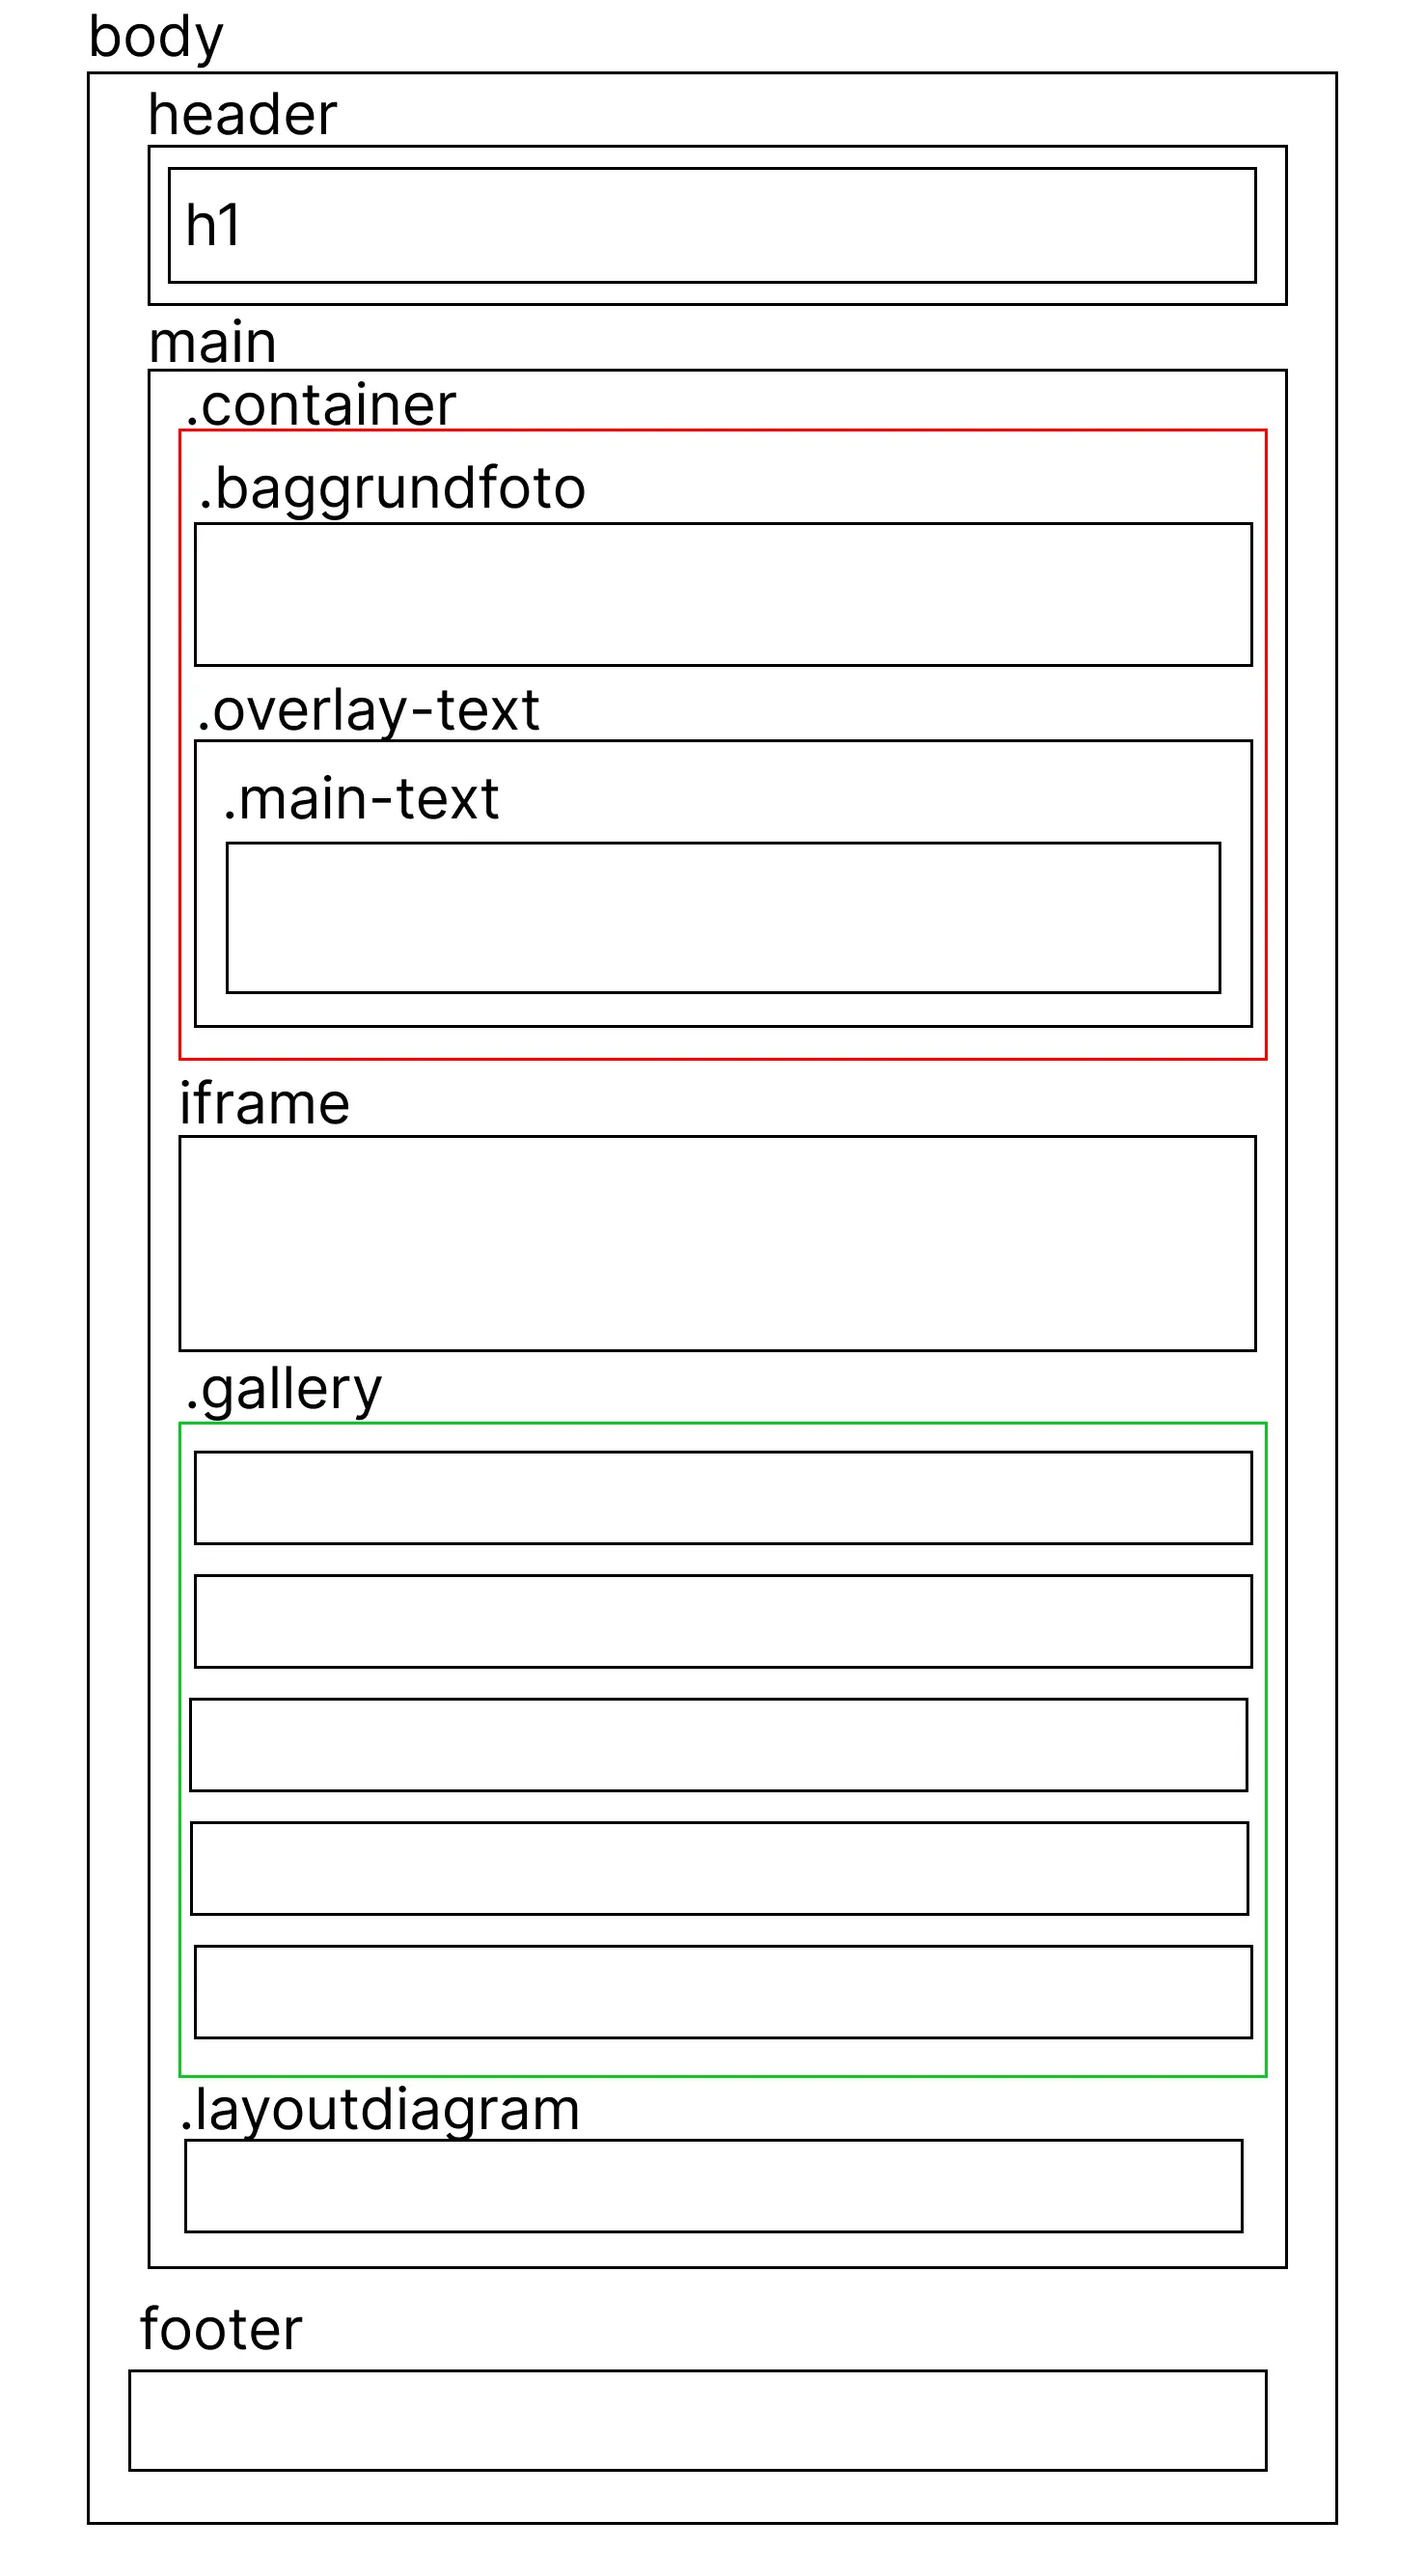
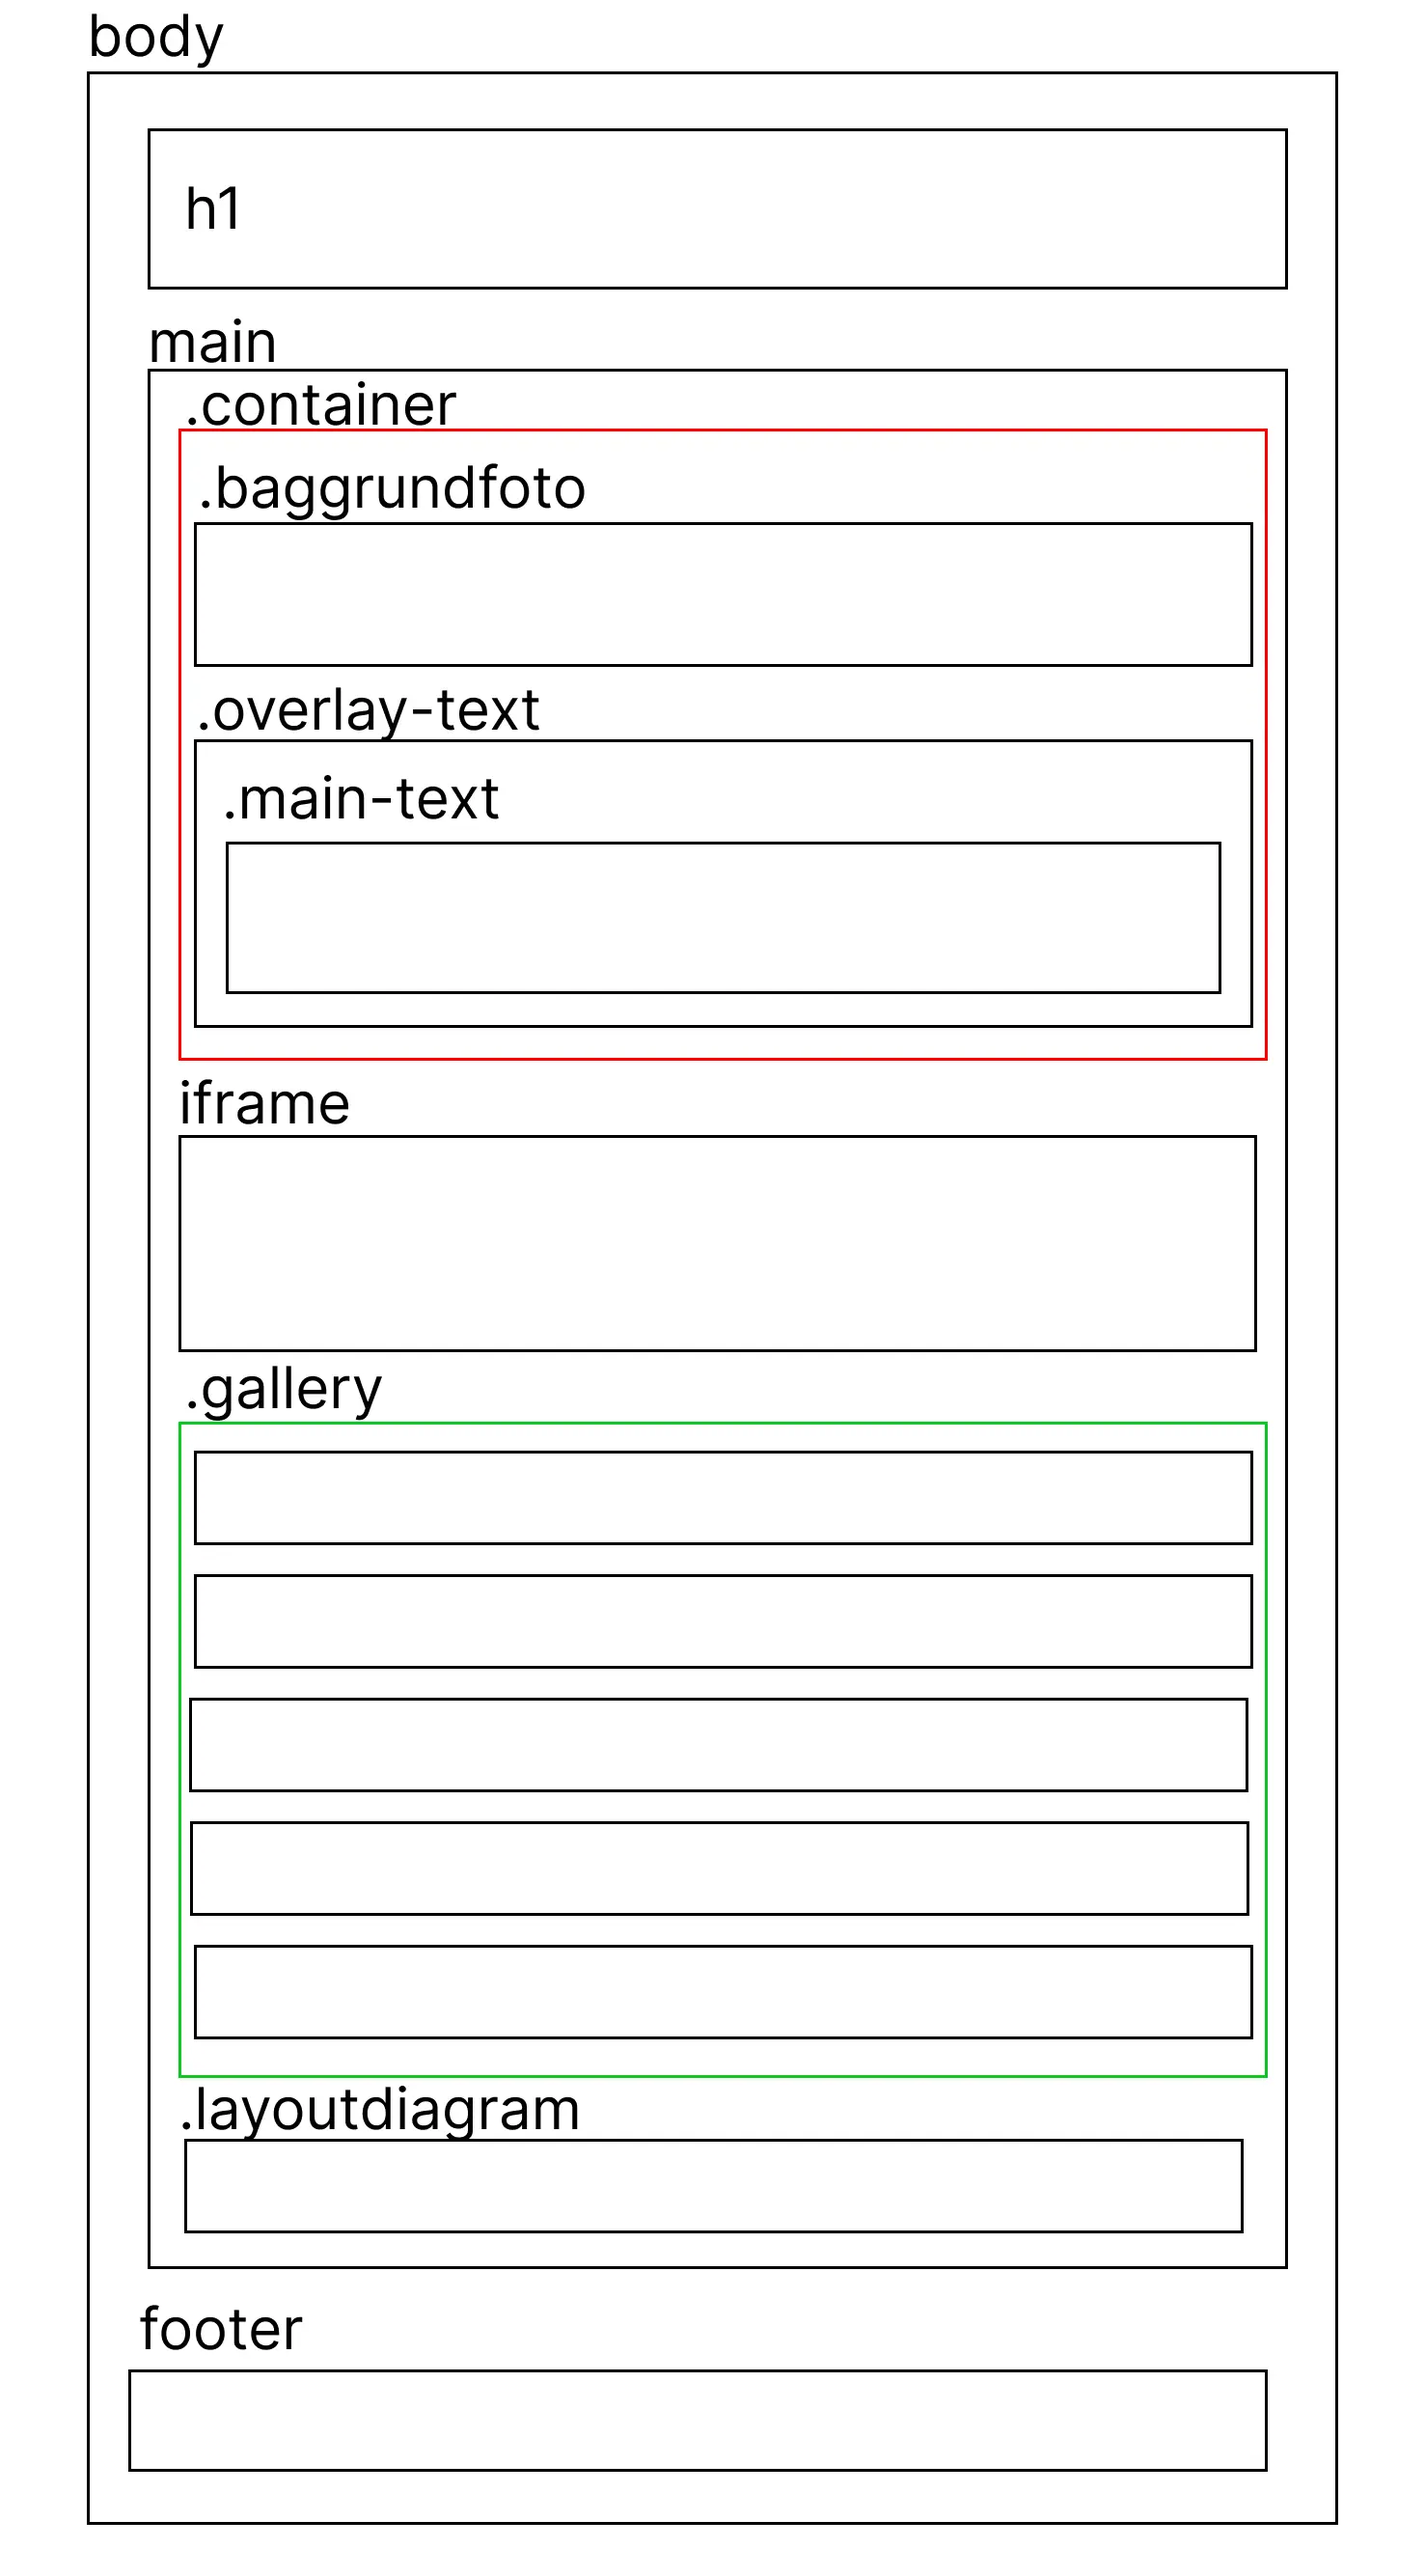
ændringer

Changed region(s): [[0.0934, 0.0311, 0.9032, 0.1244]]

diff --git a/index.html b/index.html
@@ -15,18 +15,14 @@
 
 <body>
     <header>
-        <h1>PASSION FOR STRIK OG HÆKLING</h1>
     </header>
 
     <main>
-
+        <h1>PASSION FOR STRIK OG HÆKLING</h1>
         <div class="container">
             <img class="baggrundfoto" src="img/billede4.webp" alt="billede af omgivelserne og Sarah i sofaen">
 
             <div class="overlay-text">
-
-                <!-- <h3>Sarahs passion for strik og hækling</h3> -->
-
                 <h3>Sarahs passion i farverige garntråde</h3>
 
                 <p class="main-text">Sarah inviterer dig ind i hendes farverige univers af garn, strik og hækling.
@@ -43,7 +39,7 @@
             <video controls src="http://laurafj.dk/kea/05_indhold/pilotvideo.mp4"></video>
         </div>
 
-        <iframe width="560" height="315" src="https://www.youtube.com/embed/GzmdIwatw2I?si=n2umNtHE2EJknZf6"
+        <iframe width="560" height="315" src="https://www.youtube.com/embed/PDB80E9OcWY?si=QfEK1whmOxsj7JHM"
             title="YouTube video player" frameborder="0"
             allow="accelerometer; autoplay; clipboard-write; encrypted-media; gyroscope; picture-in-picture; web-share"
             allowfullscreen></iframe>
@@ -52,15 +48,12 @@
             <img src="img/billede1.webp" alt="billede af Sarah, som kigger på det hun har lavet">
             <img src="img/billede2.webp" alt="billede af Sarah, højformat">
             <img src="img/billede3.webp" alt="billede af Sarah">
-            <!-- <img src="img/billede4.webp" alt="billede af omgivelserne og Sarah i sofaen"> -->
             <img src="img/billede5.webp" alt="billede af omgivelserne og Sarah i sofaen">
             <img src="img/billede6.webp" alt="billede af hvad hun har hæklet">
-
         </div>
 
         <h2>Layoutdiagram</h2>
         <img class="layoutdiagram" src="img/layoutdiagram.webp" alt="billede af omgivelserne og Sarah i sofaen">
-
 
     </main>
     <footer>Laura Jakobsen // Passion for strik og hækleri 2023</footer>

diff --git a/style.css b/style.css
@@ -37,6 +37,7 @@ body {
   top: 43%;
   left: 50%;
   transform: translate(-50%, -50%);
+  border-radius: 20px;
   text-align: center;
   color: #fff;
   background: rgba(240, 220, 220, 0.805);
@@ -86,23 +87,17 @@ p.main-text {
 iframe {
   width: 100%;
   height: auto;
-  /* padding-top: 40px; */
   aspect-ratio: 16 / 9;
 }
 
 .video video {
   width: 100%;
-  /* padding-bottom: 20px; */
+  padding-bottom: 20px;
   height: auto;
 }
 
 /* Foto */
 .gallery {
-  /* display: grid;
-  grid-template-columns: repeat(auto-fit, minmax(300px, 1fr));
-  gap: 1rem;
-  padding: 20px; */
-
   display: flex;
   flex-flow: wrap;
   padding-top: 20px;
@@ -110,19 +105,15 @@ iframe {
 }
 
 .gallery img {
-  /* height: 100%;
-  object-fit: cover; */
-
   width: 400px;
   height: 600px;
   object-fit: cover;
   flex-grow: 1;
-  /* border-radius: 20px; */
   border: 5px solid #c8a1a1;
 }
 
 .layoutdiagram {
-  /* border: 5px solid #c8a1a1; */
+  border: 5px solid #c8a1a1;
   width: 100%;
   max-width: 500px;
   height: auto;
